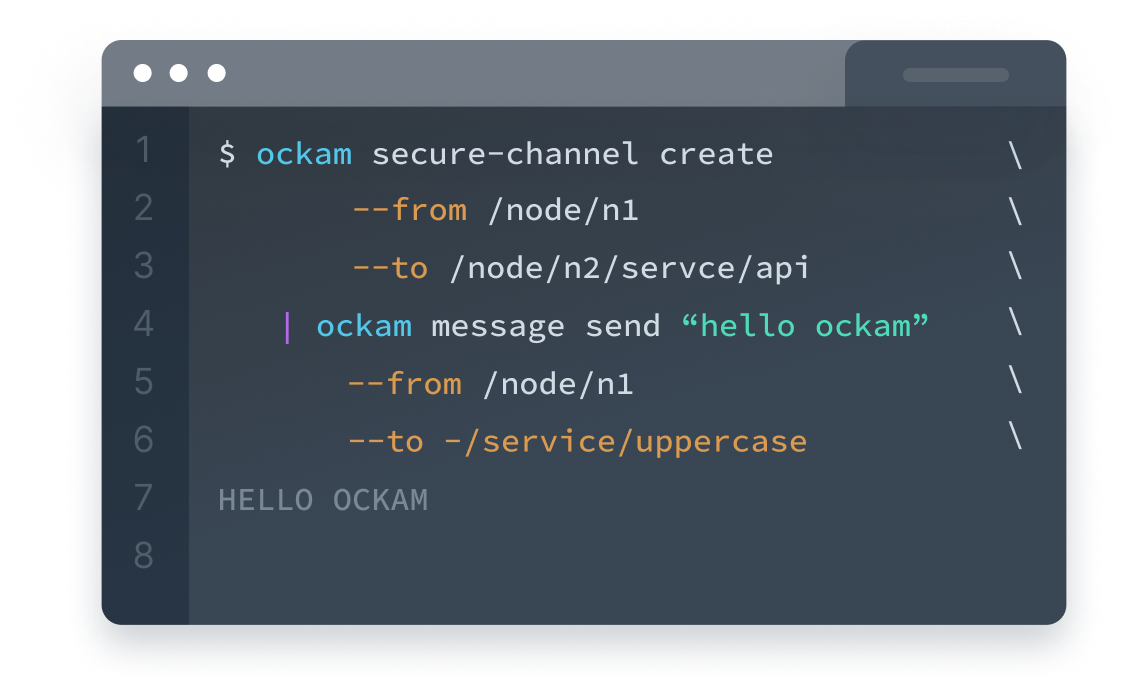
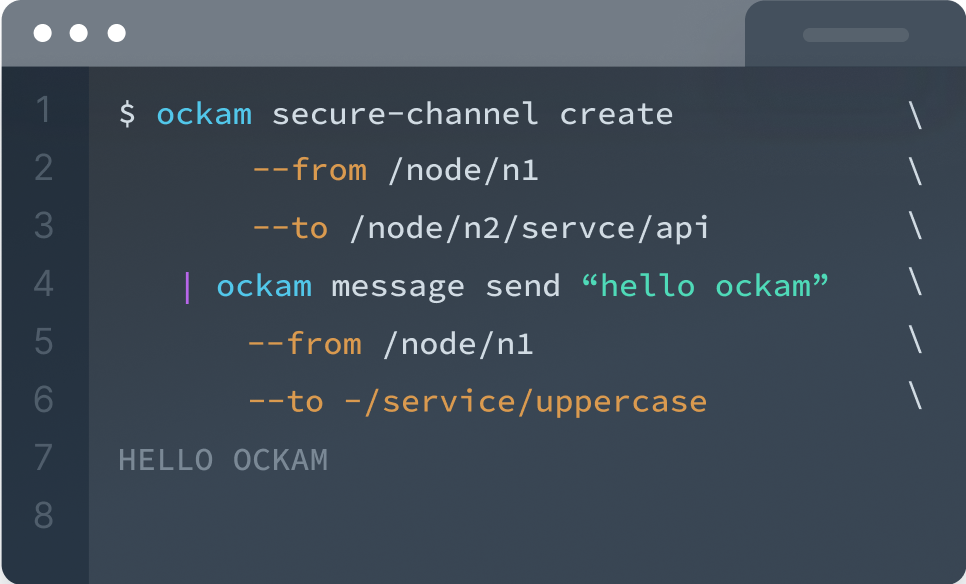
fix: paddings

diff --git a/src/views/homepage/Tools.tsx b/src/views/homepage/Tools.tsx
@@ -35,7 +35,17 @@ const Tools: FunctionComponent = () => (
       Simple Tools
     </Heading>
 
-    <Box position="relative" _hover={{ button: { display: 'block' } }} zIndex={0}>
+    <Box
+      position="relative"
+      _hover={{ button: { display: 'block' } }}
+      zIndex={0}
+      p={0}
+      sx={{
+        span: {
+          boxShadow: 'xl',
+        },
+      }}
+    >
       <IconButton
         aria-label="Copy code to clipboard"
         colorScheme="avocado"
@@ -50,10 +60,11 @@ const Tools: FunctionComponent = () => (
         zIndex={1}
         onClick={copyToClipboard}
       />
+
       <Image
         src={CodeTwoImage}
-        width={2240 / 2}
-        height={1401 / 2}
+        width={2080 / 2}
+        height={1301 / 2}
         alt="Code block 2"
         placeholder="blur"
         priority

diff --git a/src/views/homepage/Solution.tsx b/src/views/homepage/Solution.tsx
@@ -13,7 +13,7 @@ const TEXTS = [
 ];
 
 const Solution: FunctionComponent = () => (
-  <Container variant="section" pb={{ base: 20, lg: 30 }}>
+  <Container variant="section" pb={{ base: 20, lg: 30 }} pt={{ base: 30, lg: 24 }}>
     <Flex
       w="full"
       direction={{ base: 'column', lg: 'row' }}
@@ -43,11 +43,11 @@ const Solution: FunctionComponent = () => (
         </Box>
       </Box>
 
-      <Flex maxW="30rem" mt={{ base: 12, lg: 'auto' }} my={{ base: 12, lg: 'auto' }}>
+      <Flex maxW="30rem" mt={{ base: 12, lg: 'auto' }} mb={{ base: 0, lg: 'auto' }} boxShadow="xl">
         <Image
           src={CodeOneImage}
-          width={1126 / 2}
-          height={685 / 2}
+          width={966 / 2}
+          height={584 / 2}
           alt="Code block 1"
           placeholder="blur"
           priority

diff --git a/src/views/homepage/GetStarted.tsx b/src/views/homepage/GetStarted.tsx
@@ -83,7 +83,12 @@ const GetStartedCard: FunctionComponent<GetStartedCardProps> = ({ icon, title, t
 const GetStarted: FunctionComponent = () => (
   <Box bgColor="gray.50" pt={16} pb={{ base: 16, lg: 24 }}>
     <Container variant="section">
-      <SimpleGrid bgColor="gray.50" columns={{ base: 1, lg: 3 }} spacing={{ base: 6, lg: 10 }}>
+      <SimpleGrid
+        bgColor="gray.50"
+        columns={{ base: 1, lg: 3 }}
+        spacing={{ base: 6, lg: 10 }}
+        px={{ base: 0, lg: 6 }}
+      >
         {GET_STARTED_CARDS.map((card) => (
           <GetStartedCard key={card.title} {...card} />
         ))}
